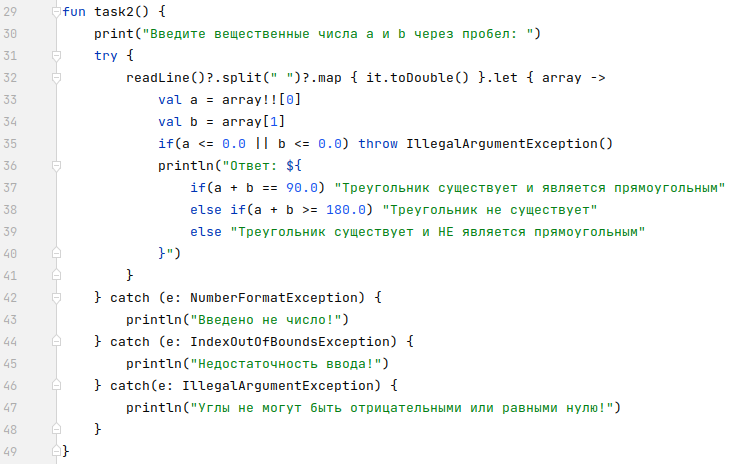
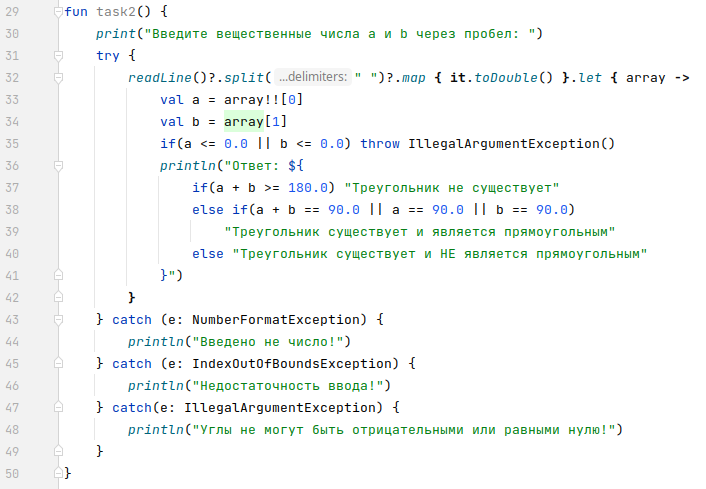
16:54 19.09.2021

diff --git a/Системное программирование/ЛР1/lr1/src/main/kotlin/Main.kt b/Системное программирование/ЛР1/lr1/src/main/kotlin/Main.kt
@@ -34,9 +34,9 @@ fun task2() {
             val b = array[1]
             if(a <= 0.0 || b <= 0.0) throw IllegalArgumentException()
             println("Ответ: ${
-                if(a + b == 90.0 || a == 90.0 && b < 90.0 || b == 90.0 && a < 90.0)
+                if(a + b >= 180.0) "Треугольник не существует"
+                else if(a + b == 90.0 || a == 90.0 || b == 90.0)
                     "Треугольник существует и является прямоугольным"
-                else if(a + b >= 180.0) "Треугольник не существует"
                 else "Треугольник существует и НЕ является прямоугольным"
             }")
         }
